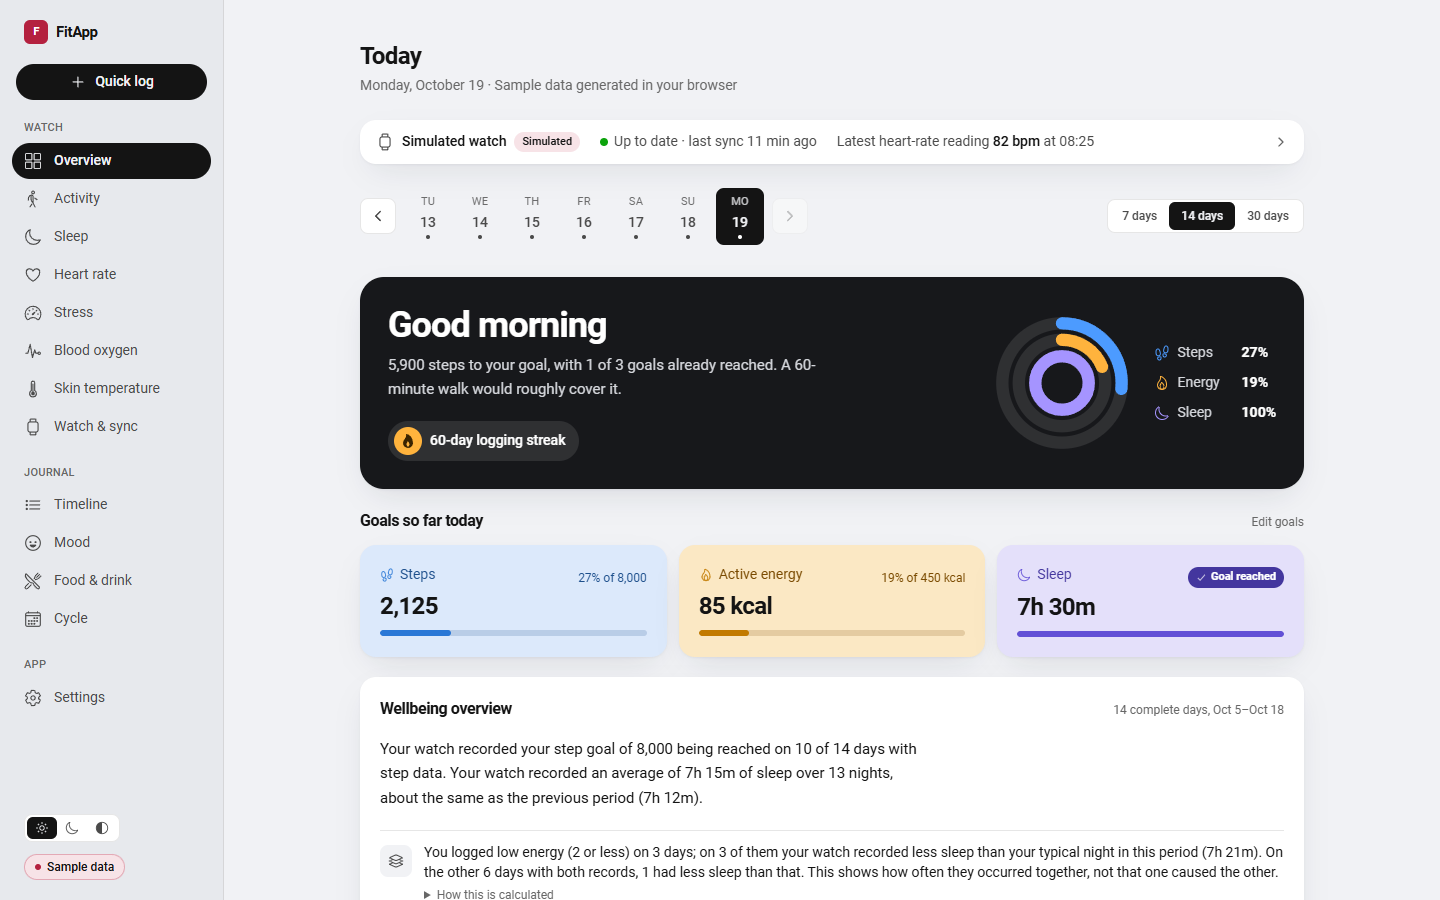
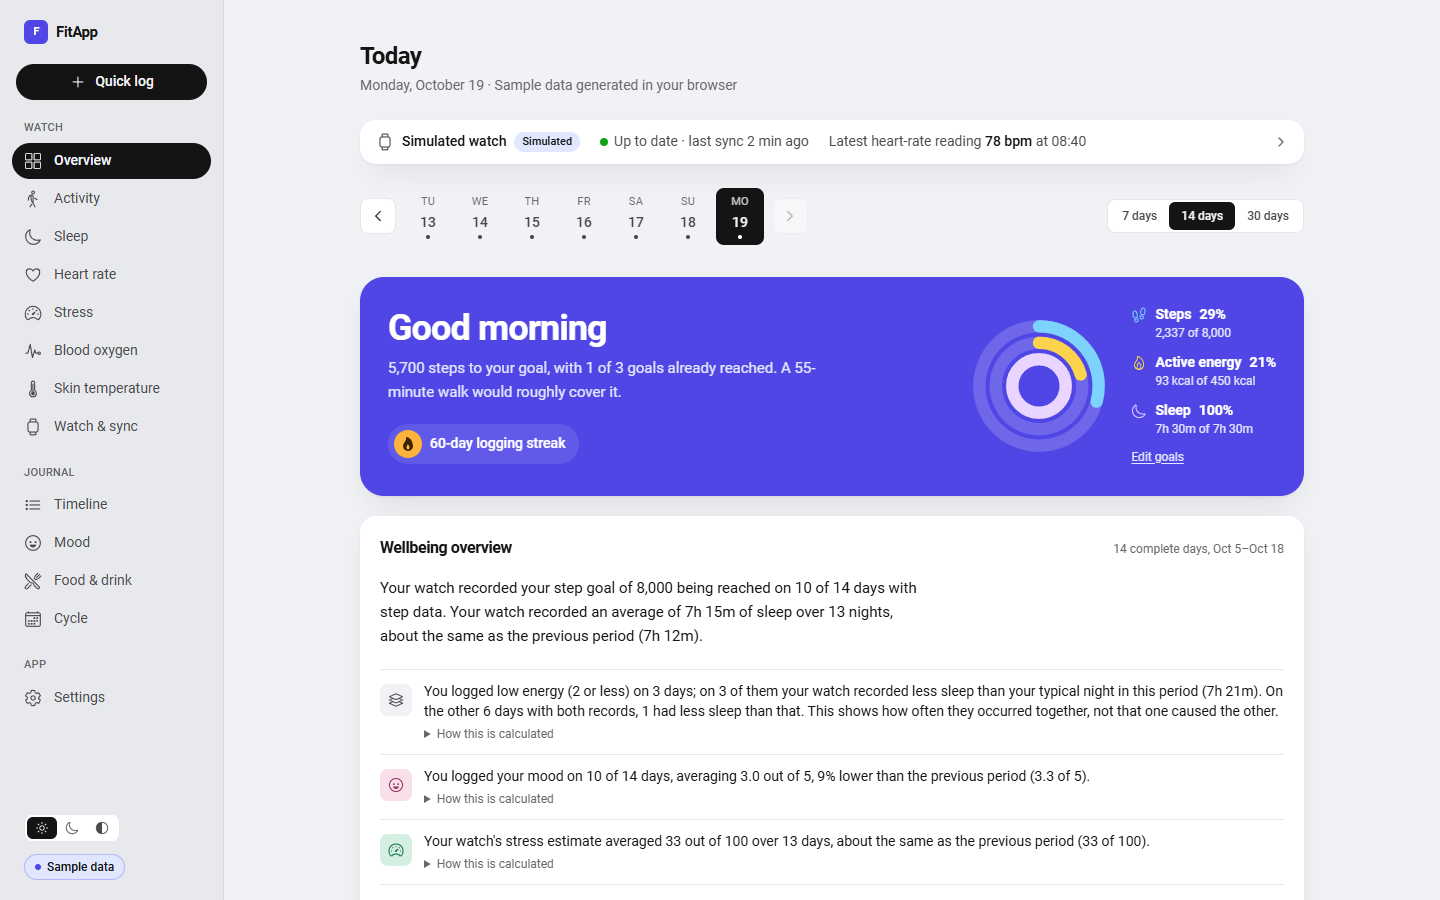
Indigo hero and accent; goal tiles only on past days
- The overview hero uses a solid indigo panel (Tailwind indigo 600, 800 in
  dark mode) instead of near-black, and lists each goal with its value.
- The accent moves from the original maroon to indigo; cycle flow keeps its
  own red.
- Today the hero carries goal progress, so the separate goal tiles show only
  when browsing other days.

diff --git a/frontend-fitapp/src/components/TodayNudge.vue b/frontend-fitapp/src/components/TodayNudge.vue
@@ -10,14 +10,14 @@
           </span>
           <span><span class="tabular">{{ streak }}</span>-day logging streak</span>
         </span>
-        <PrimaryButton v-if="!loggedToday" label="Log how you feel" @click="ui.openQuickLog('choose')" />
+        <PrimaryButton v-if="journal.loaded && !loggedToday" label="Log how you feel" @click="ui.openQuickLog('choose')" />
       </div>
     </div>
 
     <div class="flex items-center gap-5">
       <svg viewBox="0 0 140 140" class="size-32 shrink-0 -rotate-90 sm:size-36" role="img" :aria-label="ringsLabel">
         <g v-for="(r, i) in rings" :key="r.label" fill="none" stroke-width="12" stroke-linecap="round">
-          <circle cx="70" cy="70" :r="RADII[i]" stroke="rgb(255 255 255 / 0.1)" />
+          <circle cx="70" cy="70" :r="RADII[i]" stroke="rgb(255 255 255 / 0.18)" />
           <circle
             v-if="r.ratio !== null"
             cx="70"
@@ -29,13 +29,19 @@
           />
         </g>
       </svg>
-      <ul class="grid gap-2.5 text-sm" aria-hidden="true">
-        <li v-for="r in rings" :key="r.label" class="flex items-center gap-2">
-          <ion-icon :icon="r.icon" class="text-base" :style="{ color: r.color }" />
-          <span class="w-14 text-ink-2">{{ r.label }}</span>
-          <span class="tabular font-semibold">{{ r.ratio === null ? '–' : `${Math.round(r.ratio * 100)}%` }}</span>
-        </li>
-      </ul>
+      <div class="min-w-0">
+        <ul class="grid gap-3 text-sm" aria-hidden="true">
+          <li v-for="r in rings" :key="r.label" class="grid grid-cols-[1rem_auto] items-center gap-x-2">
+            <ion-icon :icon="r.icon" class="text-base" :style="{ color: r.color }" />
+            <span class="flex items-baseline gap-2">
+              <span class="font-semibold">{{ r.label }}</span>
+              <span class="tabular font-semibold">{{ r.ratio === null ? '–' : `${Math.round(r.ratio * 100)}%` }}</span>
+            </span>
+            <span class="tabular col-start-2 text-xs text-ink-2">{{ r.valueText }} of {{ r.goalText }}</span>
+          </li>
+        </ul>
+        <RouterLink to="/settings" class="mt-3 inline-block text-xs text-ink-2 underline underline-offset-2 hover:text-ink">Edit goals</RouterLink>
+      </div>
     </div>
   </section>
 </template>
@@ -48,7 +54,7 @@ import { ICONS } from '@/components/metricIcons'
 import PrimaryButton from '@/components/PrimaryButton.vue'
 import { progress } from '@/data/derive'
 import { loggingStreak } from '@/data/journalDerive'
-import { formatInt } from '@/lib/format'
+import { EMPTY, formatDuration, formatInt } from '@/lib/format'
 import { useFitnessStore } from '@/stores/fitness'
 import { useJournalStore } from '@/stores/journal'
 import { useUiStore } from '@/stores/ui'
@@ -70,13 +76,28 @@ const loggedToday = computed(() => {
   return d.mood.length + d.meals.length + d.hydration.length + (d.cycleDay ? 1 : 0) > 0
 })
 
-// Bright hues chosen for the dark hero; they match the metric colours in hue.
+// Light tints of each metric's hue (Tailwind 200-300), readable on the indigo hero.
 const rings = computed(() => {
   const g = fitness.goals
+  const a = props.day?.activity
   return [
-    { label: 'Steps', icon: ICONS.steps, color: '#4c9bff', ratio: progress(props.day?.activity?.steps, g.steps) },
-    { label: 'Energy', icon: ICONS.activeEnergy, color: '#ffb33d', ratio: progress(props.day?.activity?.activeKcal, g.activeKcal) },
-    { label: 'Sleep', icon: ICONS.sleep, color: '#a594ff', ratio: progress(props.day?.sleep?.durationMin, g.sleepMin) },
+    { label: 'Steps', icon: ICONS.steps, color: '#7dd3fc', ratio: progress(a?.steps, g.steps), valueText: formatInt(a?.steps), goalText: formatInt(g.steps) },
+    {
+      label: 'Active energy',
+      icon: ICONS.activeEnergy,
+      color: '#fcd34d',
+      ratio: progress(a?.activeKcal, g.activeKcal),
+      valueText: a?.activeKcal == null ? EMPTY : `${formatInt(a.activeKcal)} kcal`,
+      goalText: `${formatInt(g.activeKcal)} kcal`,
+    },
+    {
+      label: 'Sleep',
+      icon: ICONS.sleep,
+      color: '#e9d5ff',
+      ratio: progress(props.day?.sleep?.durationMin, g.sleepMin),
+      valueText: formatDuration(props.day?.sleep?.durationMin),
+      goalText: formatDuration(g.sleepMin),
+    },
   ]
 })
 const ringsLabel = computed(() => rings.value.map((r) => `${r.label} ${r.ratio === null ? 'not measured' : `${Math.round(r.ratio * 100)}% of goal`}`).join(', '))
@@ -99,20 +120,16 @@ const message = computed(() => {
 </script>
 
 <style scoped>
-/* A solid dark panel: light ink, and white pills for actions. */
+/* A solid brand panel: light ink, and white pills for actions. */
 .hero {
-  background: #17181b;
+  background: var(--hero);
   color: #ffffff;
   --ink: #ffffff;
-  --ink-2: #d5d7dc;
-  --muted: #9ca0a8;
-  --page: #17181b;
+  --ink-2: #e0e7ff;
+  --muted: #c7d2fe;
+  --page: var(--hero);
   --focus: #ffffff;
   box-shadow: var(--card-shadow);
-}
-:root[data-theme='dark'] .hero {
-  background: #232428;
-  --page: #232428;
 }
 .ring {
   animation: fill 900ms cubic-bezier(0.23, 1, 0.32, 1) both;

diff --git a/frontend-fitapp/src/styles/tailwind.css b/frontend-fitapp/src/styles/tailwind.css
@@ -23,12 +23,14 @@
   --muted: #676767;
   --line: #e6e6e6;
   --line-strong: #cfcfcf;
-  --accent: #b4213f;
+  --accent: #4f46e5;
   --accent-ink: #ffffff;
-  --accent-soft: #f7e3e7;
+  --accent-soft: #e0e7ff;
   --danger: #b42318;
   --danger-soft: #fdecea;
-  --focus: #b4213f;
+  --focus: #4f46e5;
+  /* The overview hero: a solid brand panel (indigo 600 / 800). */
+  --hero: #4f46e5;
 
   --activity: #2a78d6;
   --heart: #eb6834;
@@ -80,12 +82,13 @@
     --muted: #9c9a91;
     --line: #2c2c2a;
     --line-strong: #43423e;
-    --accent: #f0708b;
-    --accent-ink: #1a0b0f;
-    --accent-soft: #3a1820;
+    --accent: #a5b4fc;
+    --accent-ink: #1e1b4b;
+    --accent-soft: #24224f;
     --danger: #f97066;
     --danger-soft: #3b1714;
-    --focus: #f0708b;
+    --focus: #a5b4fc;
+    --hero: #3730a3;
 
     --activity: #3987e5;
     --heart: #d95926;
@@ -180,7 +183,7 @@
   .tone-stress { --tone-soft: var(--stress-soft); --tone-ink: var(--stress-ink); --tone: var(--stress); }
   .tone-spo2 { --tone-soft: var(--spo2-soft); --tone-ink: var(--spo2-ink); --tone: var(--spo2); }
   .tone-skin { --tone-soft: var(--skin-soft); --tone-ink: var(--skin-ink); --tone: var(--ink-2); }
-  .tone-mood { --tone-soft: var(--mood-soft); --tone-ink: var(--mood-ink); --tone: var(--accent); }
+  .tone-mood { --tone-soft: var(--mood-soft); --tone-ink: var(--mood-ink); --tone: var(--mood-ink); }
 }
 
 @layer base {

diff --git a/frontend-fitapp/src/views/OverviewPage.vue b/frontend-fitapp/src/views/OverviewPage.vue
@@ -5,10 +5,11 @@
       <WatchStatus />
       <DateToolbar />
       <div class="stagger grid gap-5">
-        <JournalState v-if="fitness.isToday"><TodayNudge :day="day" /></JournalState>
-        <section aria-labelledby="goals-title">
+        <TodayNudge v-if="fitness.isToday" :day="day" />
+        <!-- Today the hero shows goal progress; other days get the tiles. -->
+        <section v-else aria-labelledby="goals-title">
           <div class="mb-3 flex items-baseline justify-between gap-4">
-            <h2 id="goals-title" class="text-base font-semibold tracking-tight">{{ fitness.isToday ? 'Goals so far today' : 'Goals' }}</h2>
+            <h2 id="goals-title" class="text-base font-semibold tracking-tight">Goals</h2>
             <RouterLink to="/settings" class="text-xs text-muted underline-offset-2 hover:text-ink hover:underline">Edit goals</RouterLink>
           </div>
           <div class="grid gap-3 sm:grid-cols-3">

diff --git a/frontend-fitapp/src/views/CyclePage.vue b/frontend-fitapp/src/views/CyclePage.vue
@@ -147,12 +147,12 @@ const LEGEND: { flow: Flow; label: string }[] = [
   { flow: 'medium', label: 'Medium' },
   { flow: 'heavy', label: 'Heavy' },
 ]
-// One hue, light to dark with intensity; each day's flow is also in its accessible label.
+// One hue (the flow red), light to dark with intensity; each day's flow is also in its accessible label.
 const FLOW_CLASS: Record<Flow, string> = {
-  spotting: 'border border-dashed border-accent text-ink',
-  light: 'bg-accent-soft text-ink',
-  medium: 'bg-accent/55 text-ink',
-  heavy: 'bg-accent text-accent-ink',
+  spotting: 'border border-dashed border-[var(--spo2)] text-ink',
+  light: 'bg-[var(--spo2-soft)] text-ink',
+  medium: 'bg-[color-mix(in_srgb,var(--spo2)_45%,transparent)] text-ink',
+  heavy: 'bg-[var(--spo2)] text-white',
 }
 const flowClass = (flow: Flow | null) => (flow ? FLOW_CLASS[flow] : 'text-ink-2 hover:bg-page')
 
